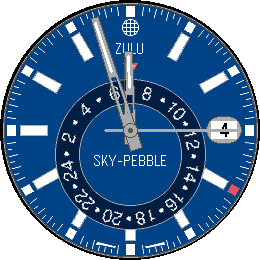
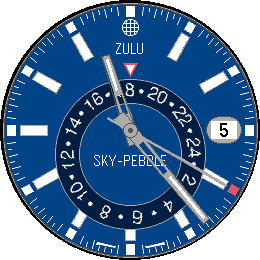
Add battery percentage display on wrist tap
Date window at 3 o'clock temporarily shows the charge level for 3 seconds when the user taps their wrist (accel_tap_service) or presses the select button. Text color is battery-aware: green ≥40%, yellow/orange ≥20%, red <20%. Uses a smaller font (GOTHIC_18_BOLD) to fit the number inside the fixed-width date window without the % symbol.

Changed region(s): [[0.2154, 0.0615, 0.9231, 0.8923], [0.8, 0.6769, 0.8615, 0.7077]]

diff --git a/src/c/main.c b/src/c/main.c
@@ -56,6 +56,10 @@ static GPoint s_center;
 
 static GBitmap *s_gmt_bitmap;
 
+// Battery display state (shown on wrist tap)
+static bool s_show_battery = false;
+static AppTimer *s_battery_timer = NULL;
+
 // ============================================================================
 // DRAWING HELPERS
 // ============================================================================
@@ -294,15 +298,16 @@ static void draw_gmt_ring(GContext *ctx, int hour_24, int minutes, int seconds) 
 }
 
 // ============================================================================
-// DRAW: Date window at 3 o'clock
+// DRAW: Date window at 3 o'clock (also shows battery % on tap)
 // ============================================================================
 
 static void draw_date_window(GContext *ctx, int mday) {
     int cx = s_center.x + (MARKER_INNER_R + MARKER_OUTER_R) / 2 - 2;
     int cy = s_center.y;
-    int date_w = 26;
     int date_h = 18;
     int pad = 5;
+
+    int date_w = 26;
     int lens_w = date_w + pad * 2;
     int lens_h = date_h + pad * 2;
     int corner_r = lens_h / 2;
@@ -318,19 +323,40 @@ static void draw_date_window(GContext *ctx, int mday) {
     graphics_context_set_stroke_width(ctx, 1);
     graphics_draw_round_rect(ctx, lens_rect, corner_r);
 
-    // White date rectangle
+    // White inner rectangle
     GRect date_rect = GRect(cx - date_w / 2, cy - date_h / 2, date_w, date_h);
     graphics_context_set_fill_color(ctx, GColorWhite);
     graphics_fill_rect(ctx, date_rect, 0, GCornerNone);
 
-    // Date number
-    char date_buf[4];
-    snprintf(date_buf, sizeof(date_buf), "%d", mday);
-    graphics_context_set_text_color(ctx, GColorBlack);
-    GRect text_rect = GRect(cx - 14, cy - 17, 28, 24);
-    graphics_draw_text(ctx, date_buf,
-        fonts_get_system_font(FONT_KEY_GOTHIC_24_BOLD),
-        text_rect, GTextOverflowModeFill, GTextAlignmentCenter, NULL);
+    if (s_show_battery) {
+        BatteryChargeState bat = battery_state_service_peek();
+        int pct = (int)bat.charge_percent;
+        char bat_buf[4];
+        snprintf(bat_buf, sizeof(bat_buf), "%d", pct);
+
+        GColor color;
+        if (pct >= 40) {
+            color = GColorGreen;
+        } else if (pct >= 20) {
+            color = GColorChromeYellow;
+        } else {
+            color = GColorRed;
+        }
+
+        graphics_context_set_text_color(ctx, color);
+        GRect text_rect = GRect(cx - date_w / 2, cy - 14, date_w, 18);
+        graphics_draw_text(ctx, bat_buf,
+            fonts_get_system_font(FONT_KEY_GOTHIC_18_BOLD),
+            text_rect, GTextOverflowModeFill, GTextAlignmentCenter, NULL);
+    } else {
+        char date_buf[4];
+        snprintf(date_buf, sizeof(date_buf), "%d", mday);
+        graphics_context_set_text_color(ctx, GColorBlack);
+        GRect text_rect = GRect(cx - 14, cy - 17, 28, 24);
+        graphics_draw_text(ctx, date_buf,
+            fonts_get_system_font(FONT_KEY_GOTHIC_24_BOLD),
+            text_rect, GTextOverflowModeFill, GTextAlignmentCenter, NULL);
+    }
 }
 
 // ============================================================================
@@ -506,6 +532,42 @@ static void draw_hands(GContext *ctx, struct tm *t) {
 }
 
 // ============================================================================
+// BATTERY TAP HANDLER
+// ============================================================================
+
+static void battery_timer_callback(void *data) {
+    s_show_battery = false;
+    s_battery_timer = NULL;
+    if (s_canvas_layer) {
+        layer_mark_dirty(s_canvas_layer);
+    }
+}
+
+static void show_battery(void) {
+    s_show_battery = true;
+    if (s_battery_timer) {
+        app_timer_reschedule(s_battery_timer, 3000);
+    } else {
+        s_battery_timer = app_timer_register(3000, battery_timer_callback, NULL);
+    }
+    if (s_canvas_layer) {
+        layer_mark_dirty(s_canvas_layer);
+    }
+}
+
+static void accel_tap_handler(AccelAxisType axis, int32_t direction) {
+    show_battery();
+}
+
+static void select_click_handler(ClickRecognizerRef recognizer, void *context) {
+    show_battery();
+}
+
+static void click_config_provider(void *context) {
+    window_single_click_subscribe(BUTTON_ID_SELECT, select_click_handler);
+}
+
+// ============================================================================
 // MAIN CANVAS UPDATE
 // ============================================================================
 
@@ -586,11 +648,15 @@ static void init(void) {
         .load = main_window_load,
         .unload = main_window_unload
     });
+    window_set_click_config_provider(s_main_window, click_config_provider);
     window_stack_push(s_main_window, true);
     tick_timer_service_subscribe(SECOND_UNIT, tick_handler);
+    accel_tap_service_subscribe(accel_tap_handler);
 }
 
 static void deinit(void) {
+    accel_tap_service_unsubscribe();
+    if (s_battery_timer) { app_timer_cancel(s_battery_timer); s_battery_timer = NULL; }
     tick_timer_service_unsubscribe();
     if (s_main_window) { window_destroy(s_main_window); s_main_window = NULL; }
 }
